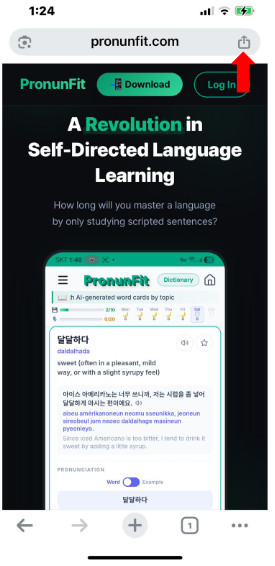
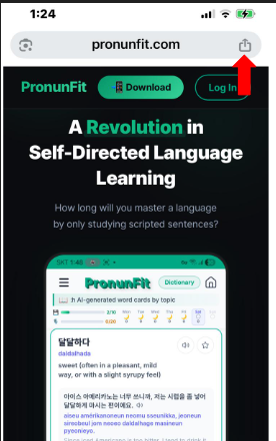
fix(ios-slideshow): step1 가로 비율 개선 + contain 복귀 + 영문 fallback
문제(사용자 단말 검증):
1. cover 모드가 위/아래 균등 크롭 → 핵심인 상단 빨간 화살표(공유 버튼 안내)가 잘림
2. 미지원 OS 언어(태국·아랍·터키 등) 사용자에게 install.alreadyInstalled가
   한국어로 fallback되어 어색

조치 1) ios-step1.png 교체 (사용자 제공 가로폭 큰 신규 이미지)
- old: 275 x 566 px (1:2.06, 매우 세로로 길어 좌우 여백 큼)
- new: 276 x 441 px (1:1.60, iPhone 화면비에 가까움)
- 기존 파일은 ios-step1.old.png로 백업 후 git에서 제거

조치 2) IOSInstallSlideshow objectFit cover → contain 복귀
- 새 step1(1:1.60): 좌우 여백 0, 위/아래 약 32px씩 흰 여백 (사실상 풀 차지)
- 옛 step2(1:2.05): 좌우 약 28px씩 여백 — 잘림 0, 빨간 화살표 모두 보존
- 향후 step2도 가로폭 큰 버전 제공 시 양쪽 풀 차지 가능

조치 3) detectBrowserSourceLang fallback 'ko' → 'en' (App.jsx:83-90)
- navigator.language 미존재 시 default: 'ko' → 'en'
- SUPPORTED_LANGUAGES 매칭 실패 시 default: 'ko' → 'en'
- catch 블록 default: 'ko' → 'en'
- 효과: 태국·아랍·터키 등 미지원 OS 사용자가 한국어 UI 보다가 영어 UI로 전환
- 영향 범위: 사용자 sourceLang 초기값 (alert뿐 아니라 전반 UI). 이미 localStorage
  에 sourceLang 저장한 사용자는 영향 없음 (저장값 우선). 신규 비지원 언어 사용자만
  영문 진입.

diff --git a/src/App.jsx b/src/App.jsx
@@ -82,11 +82,11 @@ import { useUserCountry } from './hooks/useUserCountry';
 // 브라우저/기기 언어를 감지하여 지원 언어 코드로 변환
 const detectBrowserSourceLang = () => {
   try {
-    const browserLang = (navigator.language || navigator.userLanguage || 'ko').toLowerCase();
+    const browserLang = (navigator.language || navigator.userLanguage || 'en').toLowerCase();
     if (browserLang.startsWith('zh')) return 'zh-CN';
     const matched = SUPPORTED_LANGUAGES.find(l => browserLang.startsWith(l.code.toLowerCase()));
-    return matched?.code || 'ko';
-  } catch (e) { return 'ko'; }
+    return matched?.code || 'en';
+  } catch (e) { return 'en'; }
 };
 
 // source 언어에 따른 스마트 기본 target 설정

diff --git a/src/components/IOSInstallSlideshow.jsx b/src/components/IOSInstallSlideshow.jsx
@@ -103,8 +103,8 @@ export default function IOSInstallSlideshow({ open, onClose, sourceLang }) {
                                 exit={{ opacity: 0 }}
                                 transition={{ duration: 0.4 }}
                                 style={{
-                                    width: '100%', height: '100%',
-                                    objectFit: 'cover', objectPosition: 'center',
+                                    maxWidth: '100%', maxHeight: '100%',
+                                    objectFit: 'contain',
                                     display: 'block',
                                     borderRadius: '12px',
                                 }}
